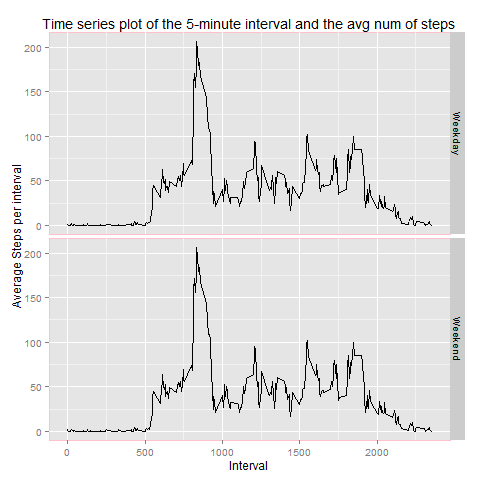
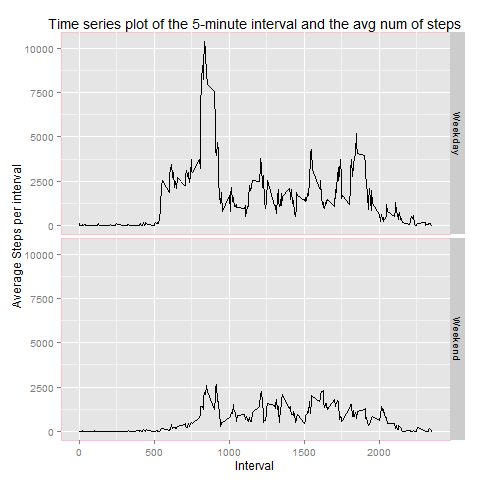
updated

diff --git a/Project-01.html b/Project-01.html
@@ -185,7 +185,14 @@ hljs.initHighlightingOnLoad();
 
 <p>Loading and preprocessing the data; Read the data in the csv and do the right transformations</p>
 
-<pre><code class="r">ActivityData &lt;- read.table(&quot;./activity.csv&quot;, sep = &quot;,&quot;, header = TRUE, na.strings = NA)
+<pre><code class="r">Sys.setlocale(category = &quot;LC_ALL&quot;, locale = &quot;C&quot;)
+</code></pre>
+
+<pre><code>## [1] &quot;C&quot;
+</code></pre>
+
+<pre><code class="r">setwd(&quot;C:/Work/bibliography/courses/2014/Data Specialization/Reproducible Research/Project-1&quot;)
+ActivityData &lt;- read.table(&quot;./activity.csv&quot;, sep = &quot;,&quot;, header = TRUE, na.strings = NA)
 ActivityData$date &lt;- as.Date(ActivityData$date)
 head(ActivityData, n = 10)
 </code></pre>
@@ -247,6 +254,10 @@ g + geom_line() + theme(panel.background = element_rect(colour = &quot;pink&quot
 maxAvgSteps &lt;- max(df2$avgSteps, na.rm = TRUE)
 tmp &lt;- df2[df2$avgSteps == maxAvgSteps, ]
 maxInterval &lt;- tmp$interval
+maxInterval
+</code></pre>
+
+<pre><code>## [1] 835
 </code></pre>
 
 <p>The <strong>835</strong> 5-minute interval, on average across all the days in the dataset, contains the maximum number of steps.</p>
@@ -287,10 +298,10 @@ The mean value of the total number of steps taken per day is <strong>1.0766 &tim
 
 <h2>Are there differences in activity patterns between weekdays and weekends?</h2>
 
-<p>Create a new factor variable in the dataset with two levels – “weekday” and “weekend” indicating whether a given date is a weekday or weekend day.</p>
+<p>Create a new factor variable in the dataset with two levels <strong>weekday</strong> and <strong>weekend</strong> indicating whether a given date is a weekday or weekend day.</p>
 
 <pre><code class="r">for (row in 1:length(newActivityData$date)) {
-    if (weekdays(as.Date(newActivityData$date[row])) %in% c(&quot;Σάββατο&quot;, &quot;Κυριακή&quot;)) {
+    if (weekdays(as.Date(newActivityData$date[row])) %in% c(&quot;Saturday&quot;, &quot;Sunday&quot;)) {
         newActivityData$typeOfDay[row] = &quot;Weekend&quot;
     } else {
         newActivityData$typeOfDay[row] = &quot;Weekday&quot;
@@ -302,16 +313,15 @@ newActivityData$typeOfDay &lt;- as.factor(newActivityData$typeOfDay)
 <p>Make a panel plot containing a time series plot (i.e. type = &ldquo;l&rdquo;) of the 5-minute interval (x-axis) and the average number of steps taken, averaged across all weekday days or weekend days (y-axis).</p>
 
 <pre><code class="r">library(ggplot2)
-df3 &lt;- ddply(newActivityData, .(interval), summarize, avgSteps = mean(steps, 
+df4 &lt;- ddply(newActivityData, .(interval, typeOfDay), summarize, avgSteps = sum(steps, 
     na.rm = TRUE))
-df4 &lt;- cbind(df3, newActivityData$typeOfDay)
-colnames(df4) = c(&quot;interval&quot;, &quot;avgSteps&quot;, &quot;typeOfDay&quot;)
+colnames(df4) = c(&quot;interval&quot;, &quot;typeOfDay&quot;, &quot;avgSteps&quot;)
 g &lt;- ggplot(df4, aes(x = interval, y = avgSteps))
 g + geom_line() + facet_grid(typeOfDay ~ .) + theme(panel.background = element_rect(colour = &quot;pink&quot;)) + 
     labs(x = &quot;Interval&quot;) + labs(y = &quot;Average Steps per interval&quot;) + labs(title = &quot;Time series plot of the 5-minute interval and the avg num of steps&quot;)
 </code></pre>
 
[2 lines of base64/hex data omitted]
 
 </body>
 

diff --git a/Project-01.md b/Project-01.md
@@ -6,6 +6,15 @@ Processing and interpreting the personal activity monitoring Data
 Loading and preprocessing the data; Read the data in the csv and do the right transformations
 
 ```r
+Sys.setlocale(category = "LC_ALL", locale = "C")
+```
+
+```
+## [1] "C"
+```
+
+```r
+setwd("C:/Work/bibliography/courses/2014/Data Specialization/Reproducible Research/Project-1")
 ActivityData <- read.table("./activity.csv", sep = ",", header = TRUE, na.strings = NA)
 ActivityData$date <- as.Date(ActivityData$date)
 head(ActivityData, n = 10)
@@ -75,6 +84,11 @@ df2 <- ddply(ActivityData, .(interval), summarize, avgSteps = mean(steps, na.rm 
 maxAvgSteps <- max(df2$avgSteps, na.rm = TRUE)
 tmp <- df2[df2$avgSteps == maxAvgSteps, ]
 maxInterval <- tmp$interval
+maxInterval
+```
+
+```
+## [1] 835
 ```
 
 The **835** 5-minute interval, on average across all the days in the dataset, contains the maximum number of steps.
@@ -117,12 +131,12 @@ abline(v = median(df3$avgSteps, na.rm = TRUE), col = "magenta", lwd = 4)
 The mean value of the total number of steps taken per day is **1.0766 &times; 10<sup>4</sup>** and the median value of the total number of steps taken per day is **1.0766 &times; 10<sup>4</sup>**.
 
 ## Are there differences in activity patterns between weekdays and weekends?
-Create a new factor variable in the dataset with two levels – “weekday” and “weekend” indicating whether a given date is a weekday or weekend day.
+Create a new factor variable in the dataset with two levels **weekday** and **weekend** indicating whether a given date is a weekday or weekend day.
 
 
 ```r
 for (row in 1:length(newActivityData$date)) {
-    if (weekdays(as.Date(newActivityData$date[row])) %in% c("Σάββατο", "Κυριακή")) {
+    if (weekdays(as.Date(newActivityData$date[row])) %in% c("Saturday", "Sunday")) {
         newActivityData$typeOfDay[row] = "Weekend"
     } else {
         newActivityData$typeOfDay[row] = "Weekday"
@@ -136,10 +150,9 @@ Make a panel plot containing a time series plot (i.e. type = "l") of the 5-minut
 
 ```r
 library(ggplot2)
-df3 <- ddply(newActivityData, .(interval), summarize, avgSteps = mean(steps, 
+df4 <- ddply(newActivityData, .(interval, typeOfDay), summarize, avgSteps = sum(steps, 
     na.rm = TRUE))
-df4 <- cbind(df3, newActivityData$typeOfDay)
-colnames(df4) = c("interval", "avgSteps", "typeOfDay")
+colnames(df4) = c("interval", "typeOfDay", "avgSteps")
 g <- ggplot(df4, aes(x = interval, y = avgSteps))
 g + geom_line() + facet_grid(typeOfDay ~ .) + theme(panel.background = element_rect(colour = "pink")) + 
     labs(x = "Interval") + labs(y = "Average Steps per interval") + labs(title = "Time series plot of the 5-minute interval and the avg num of steps")
